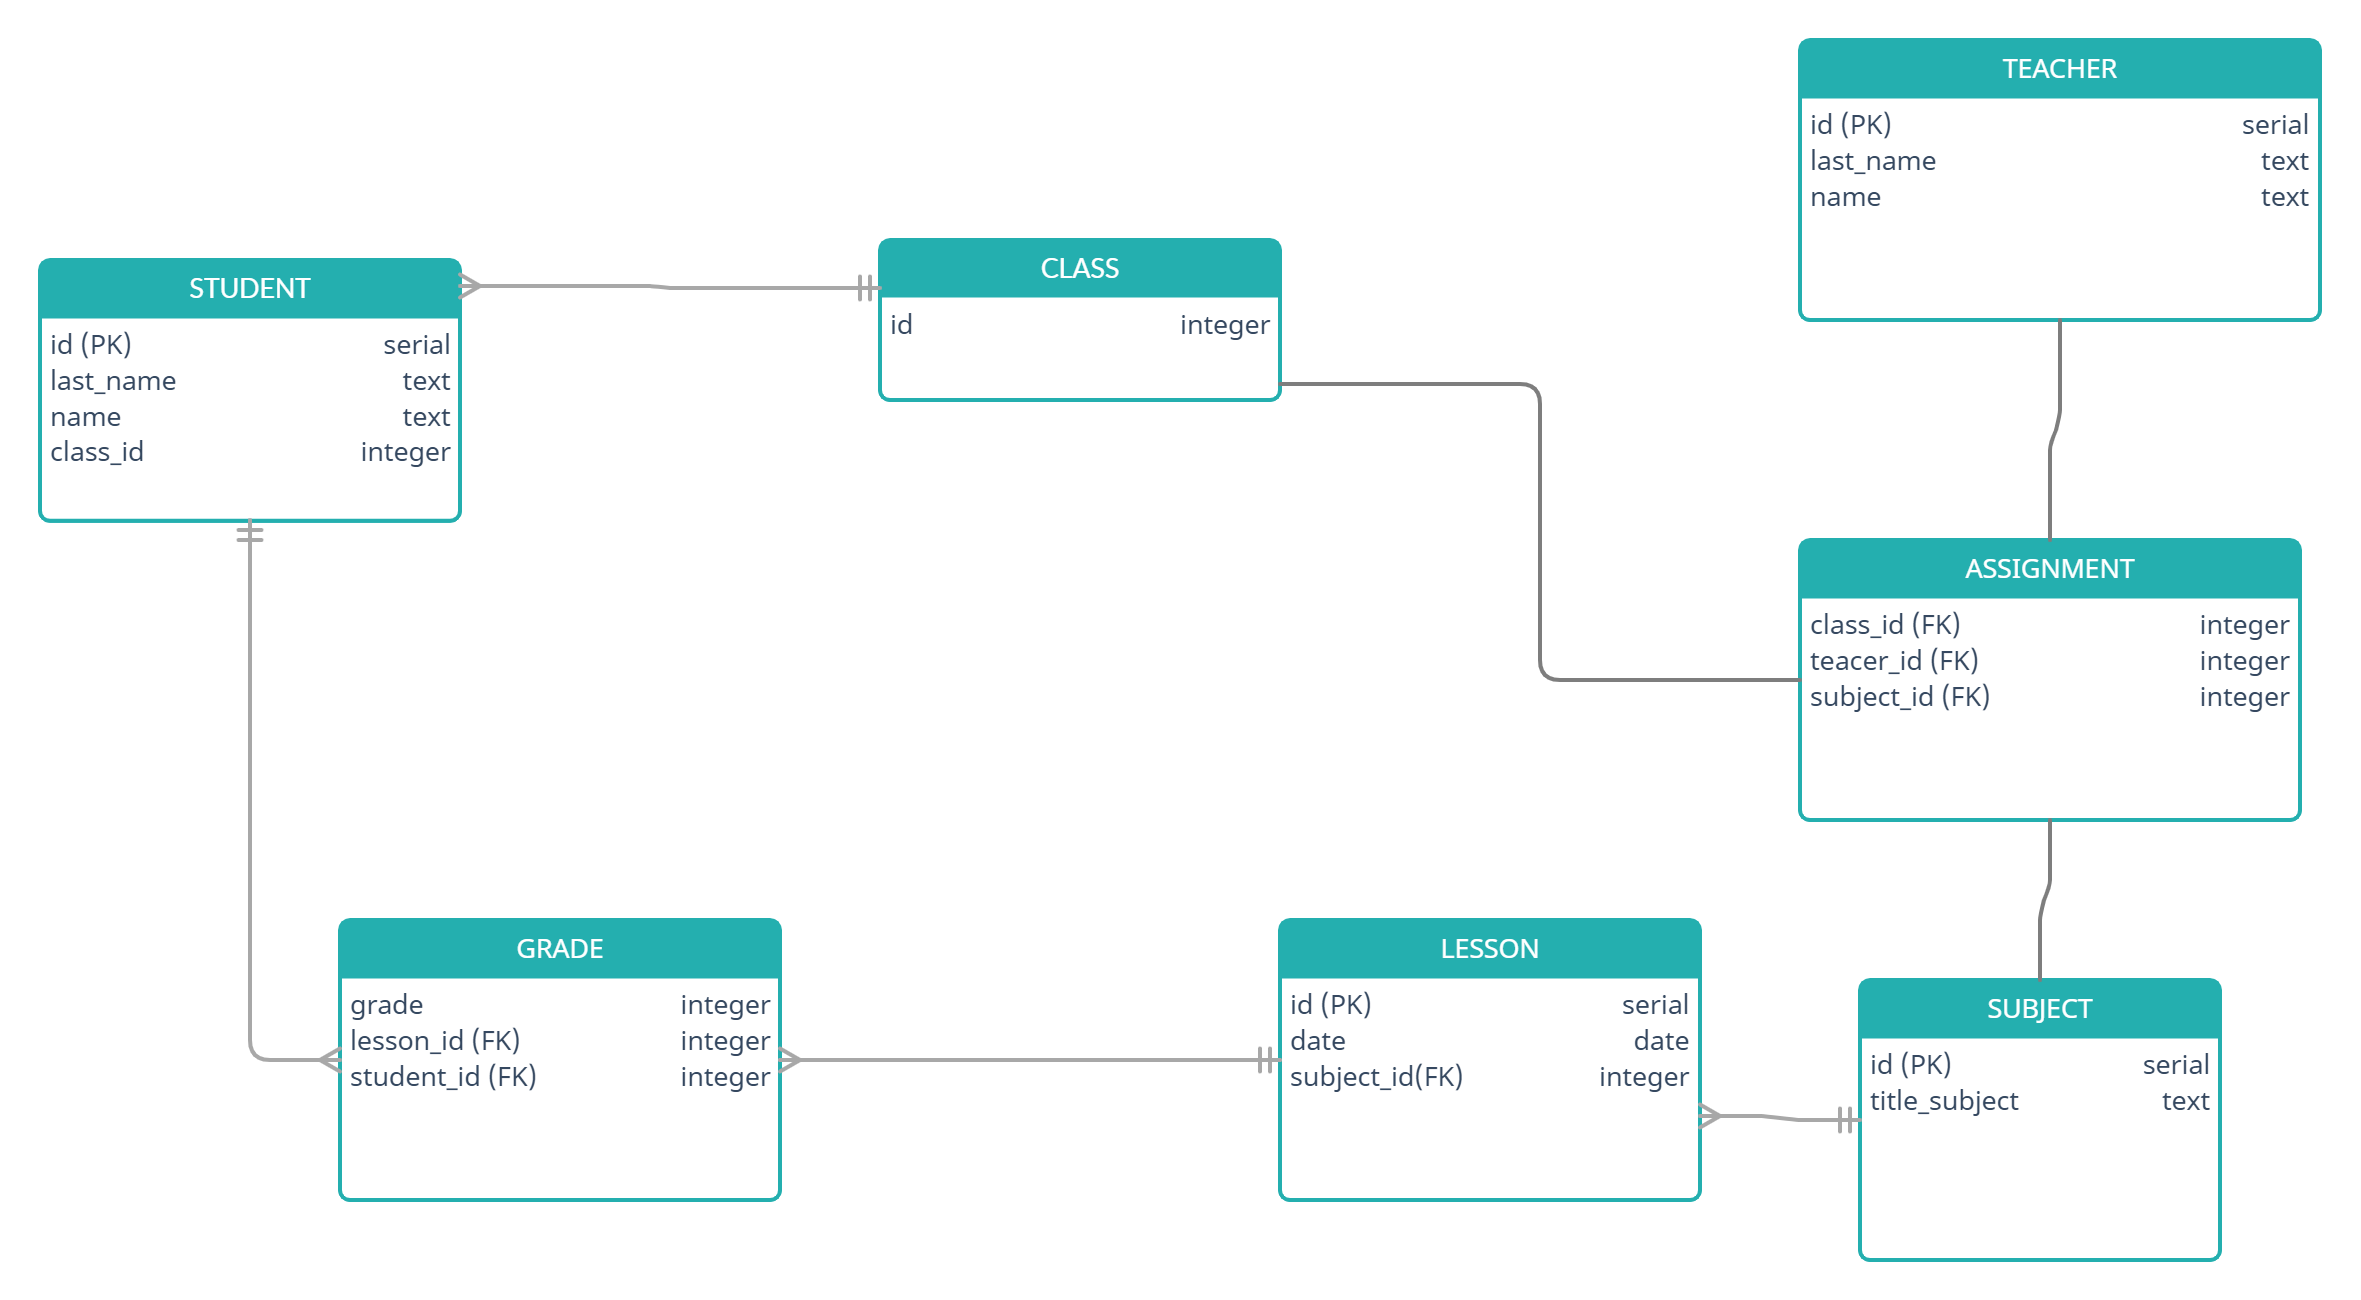
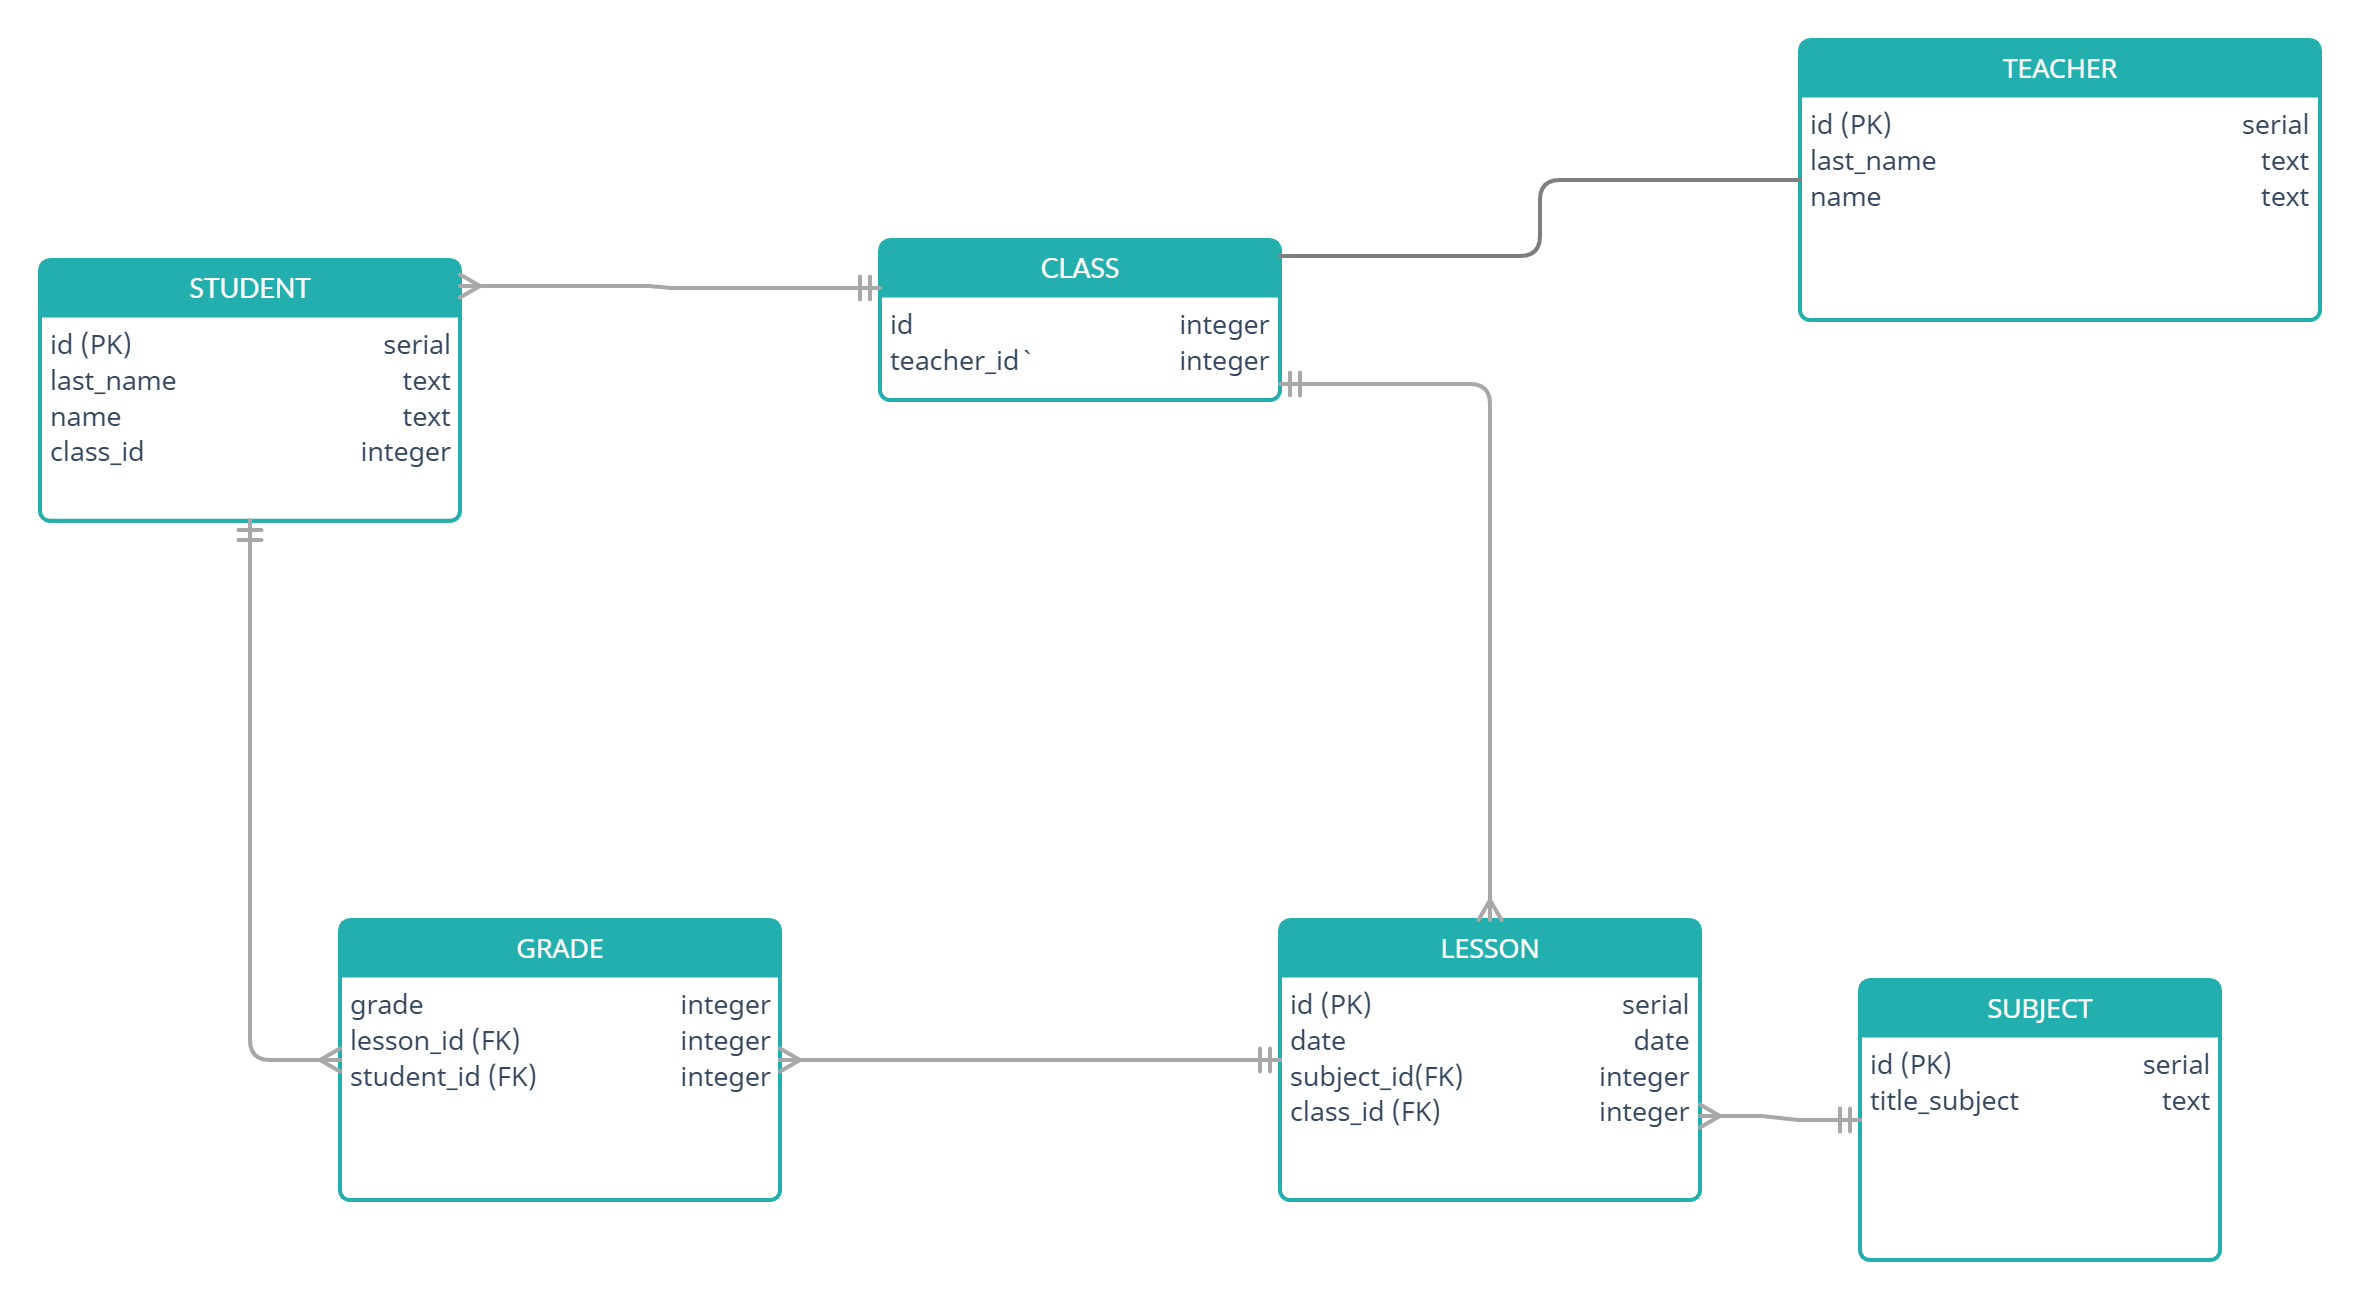
filling all tables without table a grade, renewed db_structure

diff --git a/hw8_SQL_database/filling_data.py b/hw8_SQL_database/filling_data.py
@@ -1,0 +1,106 @@
+import psycopg2
+
+from datetime import datetime, date, timedelta
+from faker import Faker
+from psycopg2 import Error
+from psycopg2.extensions import ISOLATION_LEVEL_AUTOCOMMIT
+from random import randint, choice
+
+
+from create_db import DATABASE_NAME
+CLASS_NUMBER = [101, 102, 103]
+MAX_STUDENT = 30
+MAX_TEACHER = 3
+SUBJECT = ['Реляционная алгебра',
+           'PostgreSQL и основы языка SQL',
+           'Алгоритмы и структуры данных',
+           'Основы языка Python',
+           'Прикладная математика и информатика']
+START_DATA = '01-09-2021'
+DURATION_OF_STUDY = 60
+LESSON_PER_DAY = 3
+
+if __name__ == '__main__':
+
+    fake = Faker('uk_UA')
+
+    try:
+        con = psycopg2.connect(
+            user="diet",
+            password=input('input password for DB'),
+            host="81.17.140.55",
+            port="5432",
+            database=DATABASE_NAME
+        )
+        cursor = con.cursor()
+        print('Connect to PostgreSQL is success')
+
+        # ЗАПОЛНЯЕМ ТАБЛИЦУ TEACHER
+        for _ in range(MAX_TEACHER):
+            # генерируем преподавателя
+            # вносим данные студента в таблицу teacher
+            # radint в тренарном выражении на страже гендерного равенства
+            first_name, last_name = (fake.first_name_male(), fake.last_name_male()) if randint(
+                0, 1) else (fake.first_name_female(), fake.last_name_female())
+            print(f'преподаватель:  {first_name}   {last_name}')
+            insert_query = f"INSERT INTO teacher (last_name, name) VALUES ('{last_name}', '{first_name}')"
+            cursor.execute(insert_query)
+            con.commit()
+        print('Таблица teacher заполнена')
+
+        # ЗАПОЛНЯЕМ ТАБЛИЦУ CLASS
+        cursor.execute("SELECT id from teacher")
+        teachers = cursor.fetchall()
+        insert_query = f"INSERT INTO class (id, teacher_id)  \
+                        VALUES ({CLASS_NUMBER[0]}, {teachers[0][0]}), \
+                                ({CLASS_NUMBER[1]}, {teachers[1][0]}), \
+                                ({CLASS_NUMBER[2]}, {teachers[2][0]});"
+        cursor.execute(insert_query)
+        con.commit()
+        print('таблица class заполнена')
+
+        # ЗАПОЛНЯЕМ ТАБЛИЦУ STUDENT
+        cursor.execute("SELECT * from class")
+        for elem in cursor.fetchall():
+            for _ in range(MAX_STUDENT):
+                # генерируем студента
+                # вносим данные студента в таблицу student
+                # radint в тренарном выражении на страже гендерного равенства
+                first_name, last_name = (fake.first_name_male(), fake.last_name_male()) if randint(
+                    0, 1) else (fake.first_name_female(), fake.last_name_female())
+                # print(f'{first_name}   {last_name}')
+                insert_query = f"INSERT INTO student (last_name, name, class_id) VALUES ('{last_name}', '{first_name}', {elem[0]})"
+                cursor.execute(insert_query)
+                con.commit()
+        print('Таблица student заполнена')
+
+        # ЗАПОЛНЕНИЕ ТАБЛИЦЫ SUBJECT
+        insert_query = f"Insert INTO subject (title_subject) VALUES ('{SUBJECT[0]}'), ('{SUBJECT[1]}'), ('{SUBJECT[2]}'), ('{SUBJECT[3]}'), ('{SUBJECT[4]}')"
+        cursor.execute(insert_query)
+        con.commit()
+        print('Таблица subject заполнена')
+
+        # ЗАПОЛНЕНИЕ ТАБЛИЦЫ lesson
+        # в период со START_DATA в течении времени DURATION_OF_STADY у каждой группы по три пары в день,
+        # предмет выбирается случайно из числа всех возможных предметов
+        date_lesson = datetime.strptime(START_DATA, "%d-%m-%Y").date()
+        delta_day = timedelta(days=1)
+        cursor.execute("SELECT id from subject")
+        id_subject = cursor.fetchall()
+        cursor.execute("SELECT id from class")
+        id_class = cursor.fetchall()
+        for _ in range(DURATION_OF_STUDY):
+            for _ in range(LESSON_PER_DAY):
+                for id_c in id_class:
+                    insert_query = f"Insert INTO lesson(date, subject_id, class_id) VALUES('{date_lesson}', {choice(id_subject)[0]}, {id_c[0]})"
+                    cursor.execute(insert_query)
+                    con.commit()
+            date_lesson = date_lesson + delta_day
+        print('Таблица lesson заполнена')
+    except (Exception, Error) as error:
+        print('Ошибка при работе с PostgreSQL', error)
+    finally:
+        if con:
+            cursor.close()
+            con.close()
+            print("Соединение с PostgreSQL закрыто")

diff --git a/hw8_SQL_database/create_table_db.py b/hw8_SQL_database/create_table_db.py
@@ -1,0 +1,118 @@
+
+import psycopg2
+
+
+from psycopg2 import Error
+from psycopg2.extensions import ISOLATION_LEVEL_AUTOCOMMIT
+
+
+# from create_db import
+DATABASE_NAME = 'student_db'
+
+try:
+    con = psycopg2.connect(
+        user="diet",
+        password=input('input password for DB'),
+        host="81.17.140.55",
+        port="5432",
+        database=DATABASE_NAME)
+    con.set_isolation_level(ISOLATION_LEVEL_AUTOCOMMIT)
+    cursor = con.cursor()
+    print('Connect to PostgreSQL is success')
+
+    # СОЗДАНИЕ ТАБЛИЦ В СООТВЕСТВИИ С DB_STRUCTURE
+    create_table_query = "CREATE TABLE teacher\
+            (id SERIAL PRIMARY KEY,\
+            last_name text NOT NULL,\
+            name text NOT NULL)"
+    cursor.execute(create_table_query)
+    con.commit()
+    print("Таблица teacher успешно создана в PostgreSQL")
+
+    create_table_query = 'CREATE TABLE class\
+                    (id INT PRIMARY KEY NOT NULL,\
+                    teacher_id INT  REFERENCES teacher (id))'
+    cursor.execute(create_table_query)
+    con.commit()
+    print("Таблица class успешно создана в PostgreSQL")
+
+    create_table_query = "CREATE TABLE student\
+            (id SERIAL PRIMARY KEY,\
+            last_name text NOT NULL,\
+            name text NOT NULL,\
+            class_id integer REFERENCES class(id))"
+    cursor.execute(create_table_query)
+    con.commit()
+    print("Таблица student успешно создана в PostgreSQL")
+
+    create_table_query = "CREATE TABLE subject\
+            (id SERIAL PRIMARY KEY,\
+            title_subject text NOT NULL)"
+    cursor.execute(create_table_query)
+    con.commit()
+    print("Таблица subject успешно создана в PostgreSQL")
+
+    create_table_query = "CREATE TABLE lesson\
+            (id SERIAL PRIMARY KEY,\
+            date date NOT NULL,\
+            subject_id integer REFERENCES subject(id),\
+            class_id integer REFERENCES class(id))"
+    cursor.execute(create_table_query)
+    con.commit()
+    print("Таблица lesson успешно создана в PostgreSQL")
+
+    create_table_query = "CREATE TABLE grade\
+            (grade integer NOT NULL,\
+            lesson_id integer REFERENCES lesson(id),\
+            student_id integer REFERENCES student(id))"
+    cursor.execute(create_table_query)
+    con.commit()
+    print("Таблица grade успешно создана в PostgreSQL")
+
+    create_table_query = "CREATE TABLE assignment\
+            (class_id integer NOT NULL REFERENCES class(id),\
+            teacher_id integer NOT NULL REFERENCES teacher(id),\
+            subject_id integer NOT NULL REFERENCES subject(id))"
+    cursor.execute(create_table_query)
+    con.commit()
+    print("Таблица assignment успешно создана в PostgreSQL")
+
+    """     groups = (101, 102, 103)
+        # заполняем таблицу group и таблицу student
+        for group in groups:
+            insert_query = f"INSERT INTO public.group (group_number) VALUES ({group})"
+            cursor.execute(insert_query)
+            con.commit()
+            print(f"{group} запись успешно вставлена")
+            # Получить результат
+            cursor.execute("SELECT * from public.group")
+            record = cursor.fetchall()
+            print("Результат", record)
+            # для соответствующей группы вносим студентов в таблицу student
+            for _ in range(30):
+                # генерируем студента
+                # вносим данные студента в таблицу student
+                first_name, last_name = (fake.first_name_male(), fake.last_name_male()) if randint(
+                    0, 1) else (fake.first_name_female(), fake.last_name_female())
+                print(f'{first_name}   {last_name}')
+                insert_query = f"INSERT INTO student (last_name, name, group_number) VALUES ('{last_name}', '{first_name}', {group})"
+                cursor.execute(insert_query)
+                con.commit()
+        for _ in range(3):
+            # генерируем преподавателя
+            # вносим данные преподавателя в таблицу teacher
+            first_name, last_name = (fake.first_name_male(), fake.last_name_male()) if randint(
+                0, 1) else (fake.first_name_female(), fake.last_name_female())
+            print(f'{first_name}   {last_name}')
+            insert_query = f"INSERT INTO teacher (last_name, name) VALUES ('{last_name}', '{first_name}')"
+            cursor.execute(insert_query)
+            con.commit() """
+
+
+except (Exception, Error) as error:
+    print('Ошибка при работе с PostgreSQL', error)
+finally:
+    if con:
+        cursor.close()
+        con.close()
+        print("Соединение с PostgreSQL закрыто")

diff --git a/hw8_SQL_database/create_db.py b/hw8_SQL_database/create_db.py
@@ -1,0 +1,34 @@
+import psycopg2
+
+
+from psycopg2 import Error
+from psycopg2.extensions import ISOLATION_LEVEL_AUTOCOMMIT
+
+
+DATABASE_NAME = 'student_db'
+
+if __name__ == '__main__':
+
+    try:
+        con = psycopg2.connect(
+            user="diet",
+            password=input('input password for DB'),
+            host="81.17.140.55",
+            port="5432",
+        )
+        con.set_isolation_level(ISOLATION_LEVEL_AUTOCOMMIT)
+        cursor = con.cursor()
+        print('Connect to PostgreSQL is success')
+
+        # СОЗДАНИЕ БАЗЫ ДАННЫХ
+        sql_create_database = f'create database {DATABASE_NAME}'
+        cursor.execute(sql_create_database)
+        print(f'database {DATABASE_NAME} is created')
+
+    except (Exception, Error) as error:
+        print('Ошибка при работе с PostgreSQL', error)
+    finally:
+        if con:
+            cursor.close()
+            con.close()
+            print("Соединение с PostgreSQL закрыто")
